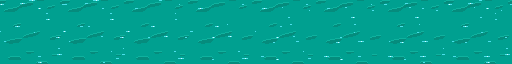
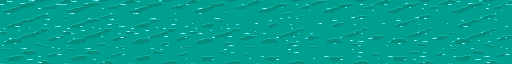
feat(carte): le clapotis contre les quais, et une eau qui respire
Raph : « fais le clapotis au pied des quais et maintenant l'eau est très
lisse ». Planche animée ; eau « B » choisie parmi trois densités.

- Clapotis : le quai est cuit en tuiles fixes, l'eau touchait le mur sur
  une ligne immobile. Une passe en direct (paintQuayLapping, après les
  tuiles) fait monter l'eau de 1 à 3 pixels d'art contre la pierre, sur la
  MÊME onde que la grève voisine (poussée par isoRiver : setQuayWave, pas
  d'import inverse), avec un liseré d'écume au front et la pierre mouillée
  qui sèche au retrait. Saute les escaliers. +0,2 à 0,3 ms par image.
- Eau moins lisse : les creux respirent d'une image à l'autre, de petites
  ondulations et deux fois plus de reflets s'y ajoutent (6,5 % des pixels
  bougent par image, contre 0,8 %). Toujours sans grille, mêmes couleurs ;
  les quatre coloris régénérés. La première nappe se refait au pixel près
  par les options du générateur.

A/B : __quayLap.on = false.

diff --git a/src/game/map/iso/isoQuay.js b/src/game/map/iso/isoQuay.js
@@ -46,6 +46,26 @@ import { quayStyleFor, quayWallTune, quayWallColors, ensureQuayGate } from '../q
 // descend sur le sable (cf. LA FIN DU QUAI SUR UNE GRÈVE) ; false = l'ancienne pointe
 // effilée en lame (A/B).
 export const QUAY_ART = { bollards: true, grain: true, parapet: true, stairs: true, endRamp: true };
+
+// ── LE CLAPOTIS AU PIED DU MUR (2026-10-02) ─────────────────────────────────
+// Raph : « fais le clapotis au pied des quais ». Le quai est cuit en tuiles FIXES :
+// l'eau y touchait le mur sur une ligne immobile, alors qu'à deux pas la grève vit
+// avec le ressac (iso/isoRiver.js). On repasse donc EN DIRECT, après les tuiles, le
+// pied de chaque mur visible : la MÊME onde que la grève (même abscisse, même rive,
+// même instant — fournie par le fleuve, cf. setQuayWave) fait monter l'eau de
+// quelques pixels d'art contre la pierre, par pixels ENTIERS (la grille du quai) :
+//   · l'eau qui monte recouvre le bas du mur (teinte du bas-fond du coloris) ;
+//   · un liseré d'écume sur son front, plus franc quand elle monte ;
+//   · au retrait, la pierre reste MOUILLÉE (plus sombre) jusqu'à la laisse, et sèche —
+//     la même laisse que le sable mouillé des grèves.
+// Molette : `QUAY_LAP` (window.__quayLap) — `rise` = montée maximale en px d'art.
+export const QUAY_LAP = { on: true, rise: 3, wet: 0.24, foam: 0.85, water: 0.9, minZoom: 0.6 };
+if (typeof window !== 'undefined') window.__quayLap = QUAY_LAP;
+// L'onde du fleuve, POUSSÉE par isoRiver (qui importe ce module : l'importer d'ici
+// ferait un cycle). (i, side) → { u, wet, rise, k } pour le sample i du fleuve, ou null
+// quand l'onde est éteinte (dézoom, effondrement, molette).
+let _quayWave = null;
+export function setQuayWave(fn) { _quayWave = typeof fn === 'function' ? fn : null; }
 if (typeof window !== 'undefined') {
   window.__quayArt = (o) => {
     if (o && typeof o === 'object') Object.assign(QUAY_ART, o);
@@ -663,6 +683,81 @@ export function paintQuays(ctx) {
   }
   ctx.imageSmoothingEnabled = prevS;
   paintNeonEdge(ctx);
+  paintQuayLapping(ctx, cam, z, dpr);
+}
+
+// Le clapotis (cf. LE CLAPOTIS AU PIED DU MUR). Colonne par colonne d'ART le long du
+// pied de chaque mur visible : trois couches de pixels pleins, un remplissage par couche.
+function paintQuayLapping(ctx, cam, z, dpr) {
+  const geo = _geo, G = QUAY_LAP;
+  if (!geo || !G.on || !_quayWave || z < G.minZoom || CM.lodActive) return;
+  const fade = Math.max(0, Math.min(1, (z - G.minZoom) / 0.15));
+  if (fade <= 0) return;
+  const W = CM.cw, H = CM.ch;
+  const ax0 = cam.x - W / (2 * z) - 2, ax1 = cam.x + W / (2 * z) + 2;
+  const ay0 = cam.y - H / (2 * z) - 8, ay1 = cam.y + H / (2 * z) + 8;
+  const snap = (v) => Math.round(v * dpr) / dpr;
+  const sx = (ax) => snap((ax - cam.x) * z + W / 2), sy = (ay) => snap((ay - cam.y) * z + H / 2);
+  const wet = [], water = [], foam = [];
+  const wq = (CM.waterShore && CM.waterShore.quay) || ['rgba(150,184,180,0.50)', 'rgba(202,224,214,0.62)'];
+  for (const run of geo.runs) {
+    const N = run.edge.length;
+    // Escaliers de ce tronçon : leur masse avance dans l'eau devant le mur, l'eau y bat
+    // contre eux et non contre le mur (on ne dessine pas au travers).
+    const st = geo.stairs.filter((p) => p.run === run);
+    const wave = new Array(N);
+    const waveAt = (k) => {
+      if (wave[k] === undefined) wave[k] = _quayWave(run.a + k, run.side) || null;
+      return wave[k];
+    };
+    for (let k = 0; k < N - 1; k += 1) {
+      const h0 = run.wallH[k], h1 = run.wallH[k + 1];
+      if (!(h0 > 0) || !(h1 > 0)) continue;              // pas de mur visible ici
+      const e0 = run.edge[k], e1 = run.edge[k + 1];
+      if (Math.max(e0.x, e1.x) < ax0 || Math.min(e0.x, e1.x) > ax1) continue;
+      if (Math.max(e0.y + h0, e1.y + h1) < ay0 || Math.min(e0.y, e1.y) > ay1) continue;
+      const w0 = waveAt(k), w1 = waveAt(k + 1);
+      if (!w0 || !w1) continue;
+      const xa = Math.ceil(Math.min(e0.x, e1.x)), xb = Math.floor(Math.max(e0.x, e1.x));
+      const dx = e1.x - e0.x;
+      for (let ax = xa; ax < xb; ax += 1) {
+        if (ax < ax0 || ax > ax1) continue;
+        if (st.some((p) => ax >= p.x0 && ax <= p.x1)) continue;
+        const t = Math.abs(dx) > 1e-6 ? (ax + 0.5 - e0.x) / dx : 0;
+        if (t < 0 || t > 1) continue;
+        const foot = e0.y + h0 + (e1.y + h1 - e0.y - h0) * t;      // pied du mur, px d'art
+        const hh = h0 + (h1 - h0) * t;
+        const kk = w0.k + (w1.k - w0.k) * t;
+        const u = w0.u + (w1.u - w0.u) * t, wv = w0.wet + (w1.wet - w0.wet) * t;
+        const r = w0.rise + (w1.rise - w0.rise) * t;
+        // Hauteurs en px d'ART ENTIERS (la grille du quai), jamais plus que le mur.
+        const lift = Math.min(Math.floor(hh) - 1, Math.round(G.rise * kk * u));
+        const lw = Math.min(Math.floor(hh) - 1, Math.round(G.rise * kk * wv));
+        const fy = Math.round(foot);
+        const X = sx(ax), Xw = Math.max(1 / dpr, sx(ax + 1) - X);
+        if (lw > lift) wet.push(X, sy(fy - lw), Xw, sy(fy - lift) - sy(fy - lw));
+        if (lift > 0) water.push(X, sy(fy - lift), Xw, sy(fy) - sy(fy - lift));
+        // L'écume : un pixel sur le front, ajouré quand l'eau ne monte pas.
+        const f = Math.max(0, Math.min(1, 0.35 + r * 1.3));
+        const hsh = ((Math.imul(ax ^ (run.ri * 7919), 0x9e3779b1) >>> 0) / 4294967296);
+        if (hsh < f) foam.push(X, sy(fy - lift - 1), Xw, sy(fy - lift) - sy(fy - lift - 1));
+      }
+    }
+  }
+  const put = (arr, style) => {
+    if (!arr.length) return;
+    ctx.fillStyle = style;
+    ctx.beginPath();
+    for (let j = 0; j < arr.length; j += 4) ctx.rect(arr[j], arr[j + 1], arr[j + 2], arr[j + 3]);
+    ctx.fill();
+  };
+  const sa = hexRgb(wq[0]);
+  ctx.save();
+  ctx.globalAlpha = fade;
+  put(wet, `rgba(14,22,28,${G.wet})`);
+  put(water, `rgba(${sa[0]},${sa[1]},${sa[2]},${G.water})`);
+  put(foam, `rgba(236,244,242,${G.foam})`);
+  ctx.restore();
 }
 
 // ── LE LISERÉ NÉON (ères 6+) ────────────────────────────────────────────────

diff --git a/src/game/map/iso/isoRiver.js b/src/game/map/iso/isoRiver.js
@@ -32,7 +32,7 @@ import { WINTER } from '../seasonMode.js';
 import { orbitPoint, FLEET_TUNE } from '../riverFleet.js';
 import { ensureQuayGate, quayWallTune, quayGapRuns, quayWallTiles, quayWallColors } from '../quaysAndRiot.js';
 import { drawIsoReflections } from './isoReflect.js';
-import { quayTaperProfile } from './isoQuay.js';
+import { quayTaperProfile, setQuayWave } from './isoQuay.js';
 import { ISO_TILE_KEYS, isoWinterTile, beachTone, isoVariantKey, ensureIsoTileKey, BEACH } from './isoGroundTiles.js';
 import { WATER, waterShoreTune, rgb } from './isoPalette.js';
 import { RAIN_TUNE, precipKind } from './isoWeather.js';
@@ -342,6 +342,22 @@ export function riverArc(pts) {
   return a;
 }
 const ensureWaveArc = riverArc;
+
+// LE CLAPOTIS DES QUAIS (iso/isoQuay.js) bat sur la MÊME onde que la grève : on lui
+// passe, pour un sample du fleuve et une rive, la hauteur du moment, la laisse et la
+// vitesse de montée, plus le facteur d'amplitude de la frame (zoom, averse). Poussé
+// d'ici parce qu'isoQuay ne peut pas importer ce module (cycle). Lu APRÈS
+// drawIsoRiver dans la frame : l'instant et l'amplitude sont ceux de la frame.
+setQuayWave((i, side) => {
+  if (waveAmp <= 0 || !(waveTune.amp > 0)) return null;
+  const rv = CM.layout && CM.layout.river, core = rv && rv.samples;
+  if (!core || i < 0 || i >= core.length) return null;
+  const s = riverArc(core)[i];
+  return {
+    u: waveReach(s, waveT, side), wet: waveWetReach(s, waveT, side),
+    rise: waveRise(s, waveT, side), k: waveAmp / waveTune.amp,
+  };
+});
 
 // Ouvre la frame : fige l'instant et l'amplitude. Appelée UNE fois, en tête de
 // drawIsoRiver — tout ce qui suit dans la frame lit la même onde.
@@ -1102,9 +1118,12 @@ export const WATER_SHEETS = {
   // restent sur le disque pour l'A/B : `__waterSheets.beau.src =
   // '/pixelart/water/river-tiles-calm-ciel.png'`), donc liseré, quai et lavis inchangés.
   // ⚠ La nouvelle nappe est un peu plus SOMBRE en moyenne (moins de pixels clairs :
-  // luminosité −3 au beau fixe, −7 à −10 sous l'averse, en hiver et à l'usure, même
-  // couleur dominante) et bouge moins (0,8 % des pixels par image contre ~10 %) :
-  // c'est le prix d'une surface sans motif, vu sur planche (waterSansEcailles.test.js).
+  // luminosité −3 au beau fixe, −8 à −10 sous l'averse, en hiver et à l'usure, même
+  // couleur dominante), vu sur planche (waterSansEcailles.test.js).
+  // 2026-10-03 (Raph : « maintenant l'eau est très lisse ») : la première nappe ne
+  // bougeait que de 0,8 % de ses pixels par image ; ses creux RESPIRENT désormais et
+  // de petites ondulations s'y ajoutent — 6,5 % (l'ancienne à écailles : ~10 %).
+  // Variante « B » choisie sur planche animée parmi trois densités.
   // ⚠ BEAU TEMPS RECOLORÉ le 2026-09-30 (docs/PLAN-MAQUETTE-VIVANTE.md, lot 1 ; Raph :
   // « oui, calme-la ») : l'azur natif était 3 à 7 fois plus saturé que la ville.
   // Même dessin, cinq couleurs remplacées une pour une (scripts/eauCalme.mjs) ; le

diff --git a/src/game/map/__tests__/quayTaper.test.js b/src/game/map/__tests__/quayTaper.test.js
@@ -1,4 +1,6 @@
 import { describe, expect, it } from 'vitest';
+import fs from 'node:fs';
+import path from 'node:path';
 import { quayTaperProfile } from '../iso/isoQuay.js';
 
 // LA FIN DU QUAI SUR UNE GRÈVE (2026-10-02, retour Raph : la pointe du quai sur la
@@ -41,5 +43,18 @@ describe('profil d\'effilement du quai', () => {
     expect(quayTaperProfile(g, 40, 1)).toBe(p);
     // La rive d'en face n'a pas de quai dans ce masque : profil nul.
     expect(Math.max(...quayTaperProfile(g, 40, -1))).toBe(0);
+  });
+});
+
+// LE CLAPOTIS AU PIED DU MUR (2026-10-03) bat sur l'onde du fleuve, que isoRiver lui
+// POUSSE (setQuayWave) : isoRiver importe déjà isoQuay (quayTaperProfile), et l'import
+// inverse ferait un cycle de modules — une zone morte à l'import, piège déjà payé deux
+// fois sur ce chantier (cf. isoRiverLife).
+describe('clapotis des quais', () => {
+  it("reçoit l'onde du fleuve sans importer isoRiver (pas de cycle)", () => {
+    const src = fs.readFileSync(path.join(process.cwd(), 'src/game/map/iso/isoQuay.js'), 'utf8');
+    expect(src).not.toMatch(/from ['"]\.\/isoRiver\.js['"]/);
+    const riv = fs.readFileSync(path.join(process.cwd(), 'src/game/map/iso/isoRiver.js'), 'utf8');
+    expect(riv).toMatch(/setQuayWave\(/);
   });
 });
